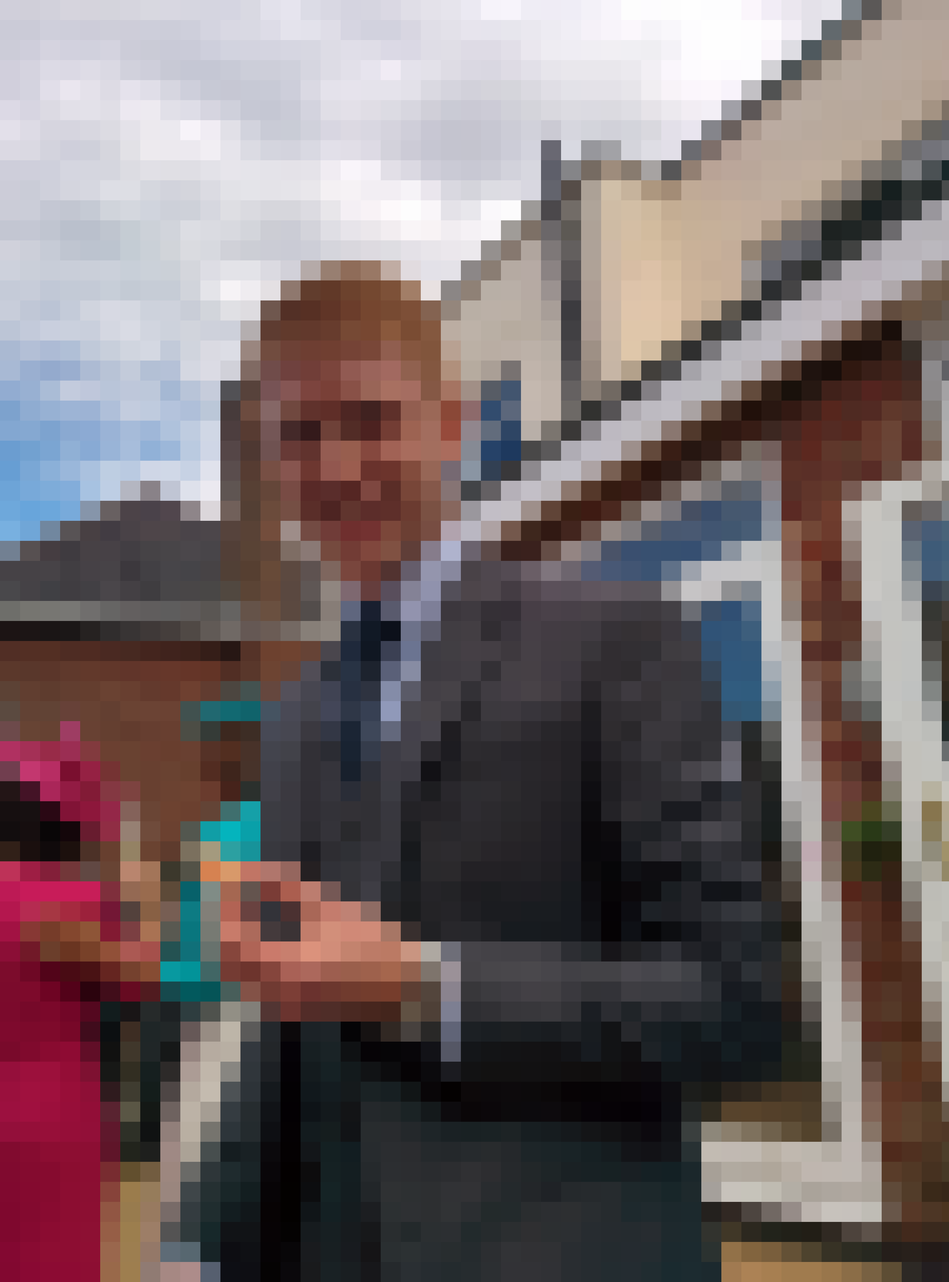
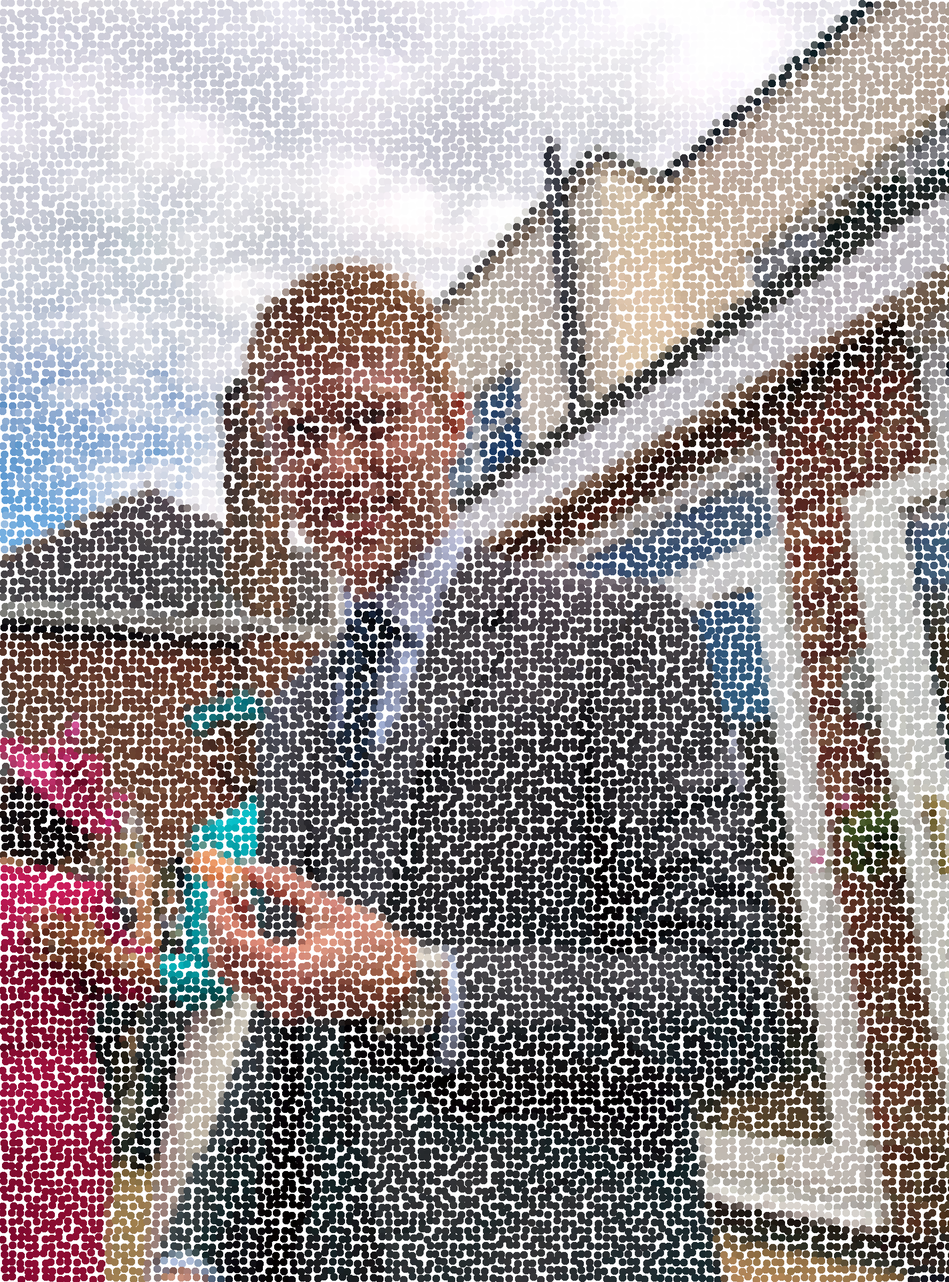
More humanised pointillism work

diff --git a/images/image_effects.py b/images/image_effects.py
@@ -1,39 +1,46 @@
 import image
+import random
 		
 class ImageEffects(image.Image):
-	def for_all_pixels(self, function, *args):
+	def for_all_pixels(self, function, *args, **kwargs):
 		for j in xrange(0, self.h):
 			for i in xrange(0, self.w):
-				function(i, j, *args)
+				function(i, j, *args, **kwargs)
 		
 	def set_all_pixels(self, pixel):
 		self.for_all_pixels(self.set_pixel, pixel)
 		
-	def _pixelate(self, i, j, pixel_size, setter, *args):
+	def _pixelate(self, i, j, pixel_size, setter, *args, **kwargs):
 		if j % pixel_size == 0 and i % pixel_size == 0:
 			pixel_aggregate = [0, 0, 0, 0x0]
 			count = 0
 			for k in xrange(0, pixel_size**2):
-				if (i + k%pixel_size) < self.w and (j + k/pixel_size) < self.h:
-					pixel = self.get_pixel(i + k%pixel_size, j + k/pixel_size)
+				pixel = self.get_pixel(i + k%pixel_size, j + k/pixel_size)
+				if pixel:
 					pixel_aggregate = [sum(x) for x in zip(pixel_aggregate, pixel)]
 					count = count + 1
 			new_pixel = [pixel_aggregate[0]/count, pixel_aggregate[1]/count, pixel_aggregate[2]/count, 0xff]
+			jitter_x = 0
+			jitter_y = 0
+			if kwargs and 'jitter' in kwargs:
+				jitter_x = random.randint(-kwargs['jitter'], kwargs['jitter'])
+				jitter_y = random.randint(-kwargs['jitter'], kwargs['jitter'])
+				args = args + (jitter_x,)
+				args = args + (jitter_y,)
 			for k in xrange(0, pixel_size**2):
-				if (i + k%pixel_size) < self.w and (j + k/pixel_size) < self.h:
-					setter(i + k%pixel_size, j + k/pixel_size, new_pixel, *args)
+				setter(i + k%pixel_size, j + k/pixel_size, new_pixel, *args)
 
 	def pixelate(self, pixel_size):
 		def _standard_pixelator(i, j, pixel):
 			self.set_pixel(i, j, pixel)
 		self.for_all_pixels(self._pixelate, pixel_size, _standard_pixelator)
 
-	def pointillism(self, radius, buffer):
-		def _pointillism(i, j, pixel, radius, buffer):
+	def pointillism(self, radius, buffer=0, jitter=0, overwrite_img=True):
+		def _pointillism(i, j, pixel, radius, buffer, jitter_x, jitter_y):
 			diameter = 2*radius
 			if (radius - i%diameter)**2 + (radius - j%diameter)**2 < (radius-buffer)**2:
-				self.set_pixel(i, j, pixel)
-			else:
-				self.set_pixel(i, j, [0xff, 0xff, 0xff, 0xff])
-		self.for_all_pixels(self._pixelate, 2*radius, _pointillism, radius, buffer)
+				self.set_pixel(i + jitter_x, j + jitter_y, pixel, True)
+		self.new_canvas()
+		self.for_all_pixels(self._pixelate, 2*radius, _pointillism, radius, buffer, jitter=jitter)
+		self.img = self.canvas if overwrite_img else self.img
 

diff --git a/images/image.py b/images/image.py
@@ -18,9 +18,10 @@ class Image(object):
 		self.h = len(self.img)
 		self.w = len(self.img[0])/4
 			
-	def save(self, filename, includes_png=False):
+	def save(self, filename, use_canvas=False, includes_png=False):
+		img = self.canvas if use_canvas else self.img
 		self.out_filepath = self.out_image_dir + filename + ('' if includes_png else '.png')
-		png.from_array(self.img, 'RGBA').save(self.out_filepath)
+		png.from_array(img, 'RGBA').save(self.out_filepath)
 		
 	def open(self):
 		subprocess.call(('cygstart ' + self.out_filepath), shell=True)
@@ -29,10 +30,22 @@ class Image(object):
 		if self.DEBUG:
 			print self.img
 			
-	def get_pixel(self, i, j):
-		return list(self.img[j][4*i:4*i+4])
+	def new_canvas(self, pixel=[0xff, 0xff, 0xff, 0xff]):
+		self.canvas = [[] for j in xrange(0, self.h)]
+		for j in xrange(0, self.h):
+			for i in xrange(0, self.w):
+				self.canvas[j].extend(pixel)
+			
+	def get_pixel(self, i, j, use_canvas=False):
+		img = self.canvas if use_canvas else self.img
+		if i >= 0 and i < self.w and j >= 0 and j < self.h:
+			return list(img[j][4*i:4*i+4])
+		else:
+			return None
 		
-	def set_pixel(self, i, j, pixel):
-		for k in xrange(0,4):
-			self.img[j][4*i + k] = pixel[k]
+	def set_pixel(self, i, j, pixel, use_canvas=False):
+		img = self.canvas if use_canvas else self.img
+		if i >= 0 and i < self.w and j >= 0 and j < self.h:
+			for k in xrange(0,4):
+				img[j][4*i + k] = pixel[k]
 		

diff --git a/images/test.py b/images/test.py
@@ -1,14 +1,15 @@
 from image_effects import *
 
-filename = "me"
 filename = "test"
-filename = "thames"
-filename = "pumpkin"
+#filename = "thames"
+#filename = "pumpkin"
+filename = "me"
 
 myImg = ImageEffects(filename, True)
 
 #myImg.set_all_pixels([0xff, 0x88, 0x00, 0xff])
-myImg.pointillism(20, 2)
+myImg.pointillism(10, 0, 4)
+#myImg.pixelate(15)
 
 myImg.save(filename + "Edited")
 
